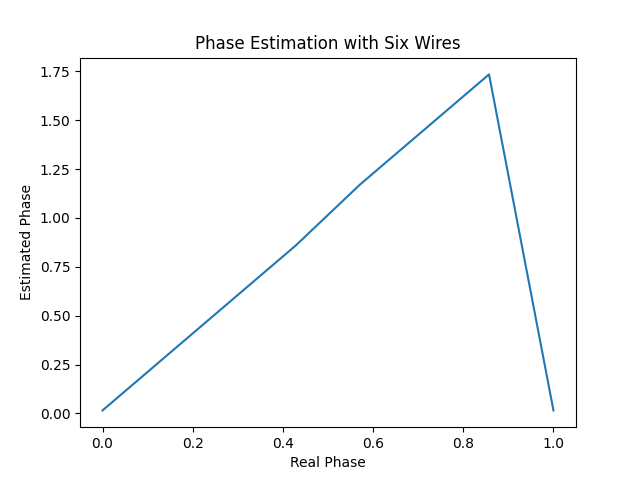
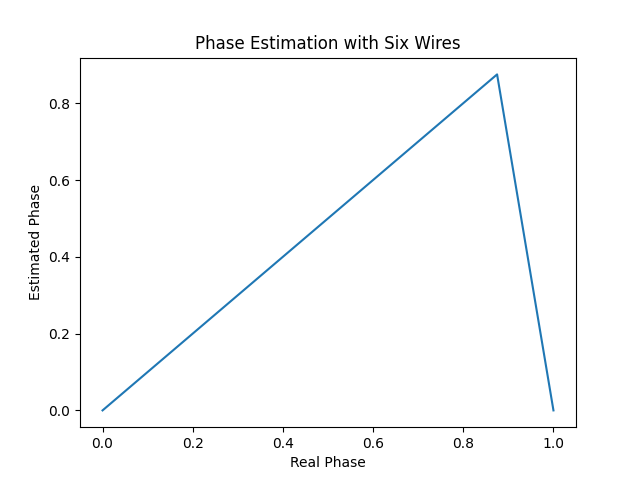
finished phase est and fixed sim s

diff --git a/quantum_simulators.py b/quantum_simulators.py
@@ -168,9 +168,9 @@ def ReadInputStateFromFile(file):
     return state
 
 def MakeFileFromBasis(basis, filename):
-    f = open(filename +  ".circuit", "w")
+    f = open(filename, "w")
     for elem in basis:
-        f.write(np.real(basis) + " " + np.imag(basis) + "\n")
+        f.write(str(np.real(elem)) + " " + str(np.imag(elem)) + "\n")
 
 def ReadInputStateFromBasis(basis):
     index = int(basis[1:(len(basis)-1)], 2)
@@ -193,6 +193,7 @@ def Simulator_s(circuit):
     myState = VecToDirac(myState)
   
     for gate in myInput:
+        print(gate)
         match gate[0]:
             case "H":
                 myState = H(int(gate[1]), myState)
@@ -201,7 +202,7 @@ def Simulator_s(circuit):
             case "CNOT":
                 myState = CNOT(int(gate[1]), int(gate[2]), myState)
     
-    myState = AddDuplicates(myState)
+        myState = AddDuplicates(myState)
 
     if measure:
         return measureState(DiracToVec(myState))
@@ -374,25 +375,93 @@ print(B)'''
 
 # Phase Estimation
 
+def phaseEstBoxer(top_wires,num_wires,out):
+    vals = [0 for i in range(2**top_wires)]
+
+    for state in out:
+        pos = int(state[1][:top_wires], 2)
+        vals[pos] += np.conj(state[0])*state[0]
+    
+    return vals
+
+# Measure
+
+circuit = open("Circuits/measure.circuit").read()
+print(Simulator_s(circuit))
+
+# Arbitrary 
+
+'''phase_estimation_circuit = "8 \n INITSTATE BASIS |00000011> \n" + phase_est_circuit.makeArbitraryPhaseEstCircuit(6, "NOT 0 \n P 0 0.3 \n NOT 1 \n")
+out = Simulator_s(phase_estimation_circuit)
+print(out)
+
+steps = [i/(2**(len(out[0][1])-2)) for i in range(2**6+1)]
+vals = phaseEstBoxer(6,8,out)
+
+plt.figure(0)
+plt.stairs(vals, steps, fill=True)
+plt.title("Phase Estimation with New Circuit")
+plt.xlabel("Estimated Phase")
+plt.ylabel("Probability")
+plt.savefig("Images/phaseesthistarbit.png")
+plt.show()'''
+
+# Speed
+
+'''phase_estimation_circuit = "7 \n INITSTATE BASIS |0000001> \n" + phase_est_circuit.makePhaseEstCircuit(6,7, 0.5*2*np.pi)
+out = Simulator_s(phase_estimation_circuit)
+print(out)
+
+steps = [i/(2**(len(out[0][1])-1)) for i in range(2**6+1)]
+vals = phaseEstBoxer(6,7,out)
+
+#print(vals)
+#print(steps)
+
+plt.figure(0)
+plt.stairs(vals, steps, fill=True)
+plt.axvline(x=0.5, color='r', linestyle='--')
+plt.title("Phase Estimation of 0.5 with New Phase Trick")
+plt.xlabel("Estimated Phase")
+plt.ylabel("Probability")
+plt.savefig("Images/phaseesthistspeed.png")
+plt.show()'''
+
 # Eigenstates
 
-testvec = [0 for i in range(2**6)]
+'''testvec = [0 for i in range(2**7)]
 testvec[0] = np.sqrt(0.3)
 testvec[1] = np.sqrt(0.7)
 MakeFileFromBasis(testvec, "eigenstates_test.txt")
-phase_estimation_circuit = "7 \n INITSTATE FILE eigenstates_test.txt" + phase_est_circuit.makePhaseEstCircuit(6,7, 0.5)
+phase_estimation_circuit = "7 \n INITSTATE FILE eigenstates_test.txt \n" + phase_est_circuit.makePhaseEstCircuit(6,7, 0.5*2*np.pi)
+out = Simulator_s(phase_estimation_circuit)
+print(out)
+
+steps = [i/(2**(len(out[0][1])-1)) for i in range(2**6+1)]
+vals = phaseEstBoxer(6,7,out)
+
+#print(vals)
+#print(steps)
+
+plt.figure(0)
+plt.stairs(vals, steps, fill=True)
+plt.axvline(x=0.5, color='r', linestyle='--')
+plt.title("Phase Estimation of 0.5 with Different Eigenstate")
+plt.xlabel("Estimated Phase")
+plt.ylabel("Probability")
+plt.savefig("Images/phaseesthisteigen.png")
+plt.show()'''
 
 # 6 Wires
 
-'''phase = np.linspace(0, 2*np.pi, 8)
+'''phase = np.linspace(0, 2*np.pi, 9)
 estim_list = []
 
 for p in phase:
-    print(p)
+    print(p/(2*np.pi))
     phase_estimation_circuit = "7 \n INITSTATE BASIS |0000001> " + phase_est_circuit.makePhaseEstCircuit(6,7, p)
 
     out = Simulator_s(phase_estimation_circuit)
-
     estim = 0
     amp = 0
 
@@ -400,7 +469,7 @@ for p in phase:
         temp_amp = np.conj(i[0])*i[0]
         if temp_amp > amp:
             amp = temp_amp
-            estim = int(i[1][0:len(i[1])], 2)/(2**(len(i[1])-1))
+            estim = int(i[1][0:len(i[1])-1], 2)/(2**(len(i[1])-1))
 
     estim_list.append(estim)
 
@@ -412,15 +481,14 @@ plt.ylabel("Estimated Phase")
 plt.savefig("Images/phaseest6.png")
 
 p = 0.1432394487827058*2*np.pi
-phase_estimation_circuit = "7 \n INITSTATE BASIS |0000001> " + phase_est_circuit.makePhaseEstCircuit(6,7, p)
+phase_estimation_circuit = "7 \n INITSTATE BASIS |0000001> \n" + phase_est_circuit.makePhaseEstCircuit(6,7, p)
 out = Simulator_s(phase_estimation_circuit)
 
-vals = [np.conj(out[i][0])*out[i][0] for i in range(len(out))]
+vals = phaseEstBoxer(6,7,out)
 steps = [i/(2**(len(out[0][1])-1)) for i in range(len(out)+1)]
 
-print((2**(len(out[0][1])-1)))
-print(vals)
-print(steps)
+#print(vals)
+#print(steps)
 
 plt.figure(1)
 plt.stairs(vals, steps, fill=True)
@@ -463,12 +531,9 @@ p = 0.1432394487827058*2*np.pi
 phase_estimation_circuit = "3 \n INITSTATE BASIS |001> \n H 0 \n H 1 \n CPHASE 1 2 " + str(p) + " \n CPHASE 0 2 " + str(p) + " \n CPHASE 0 2 " + str(p) + "\n H 0 \n CPHASE 0 1 " + str(-np.pi/2) + " \n H 1 \n SWAP 0 1"
 out = Simulator_s(phase_estimation_circuit)
 
-vals = [np.conj(out[i][0])*out[i][0] for i in range(len(out))]
+vals = phaseEstBoxer(2,3,out)
 steps = [i/(2**(len(out[0][1])-1)) for i in range(len(out)+1)]
 
-print((2**(len(out[0][1])-1)))
-print(vals)
-print(steps)
 
 plt.figure(1)
 plt.stairs(vals, steps, fill=True)
@@ -512,7 +577,7 @@ plt.savefig("phaseest1.png")'''
 '''phase_estimation_circuit = "2 \n INITSTATE BASIS |01> \n H 0 \n CPHASE 0 1 " + str(2*np.pi*0.1432394487827058) + "\n H 0"
 out = Simulator_s(phase_estimation_circuit)
 
-vals = [np.conj(out[i][0])*out[i][0] for i in range(len(out))]
+vals = phaseEstBoxer(1,2,out)
 steps = [i/len(out[0][1]) for i in range(len(out)+1)]
 
 print(vals)

diff --git a/phase_est_circuit.py b/phase_est_circuit.py
@@ -22,8 +22,27 @@ def invert(circuit):
     return reversed_text
 
 def makePhaseEstCircuit(top_wires, num_wires, phase):
-    #f = open("Phase_Circuits/phase_est_circuit-" + str(num_wires) + "-" + str(phase) +  ".circuit", "w")
-    output = str(num_wires) + "\n"
+    output = ""
+
+    # Hadamard Section
+    for i in range(top_wires):
+        output += "H " + str(i) + "\n"
+
+    # U Section
+    # for i in range(top_wires):
+    #    for j in range(2**i):
+    #         output += "CPHASE " + str(top_wires-i-1) + " " + str(top_wires) + " " + str(phase) + "\n"
+
+    # Faster U
+    for i in range(top_wires):
+        output += "CPHASE " + str(top_wires-i-1) + " " + str(top_wires) + " " + str(phase*(2**i)) + "\n"
+    
+    # Inverse QFT
+    output += invert(makeQFTCircuit(top_wires))
+    return output
+
+def makeArbitraryPhaseEstCircuit(top_wires, circuit):
+    output = ""
 
     # Hadamard Section
     for i in range(top_wires):
@@ -31,11 +50,22 @@ def makePhaseEstCircuit(top_wires, num_wires, phase):
 
     # U Section
     for i in range(top_wires):
-        for j in range(2**i):
-            output += "CPHASE " + str(top_wires-i-1) + " " + str(top_wires) + " " + str(phase) + "\n"
+       for j in range(2**i):
+            output += makeControl(top_wires-i-1, top_wires, circuit)
     
     # Inverse QFT
     output += invert(makeQFTCircuit(top_wires))
     return output
 
-print(makePhaseEstCircuit(2,3, np.pi))
+def makeControl(control, top_wires, circuit):
+    output = ""
+    for line in circuit.split('\n'):
+        if len(line.split()) <= 1:
+            continue
+        if "NOT" in line:
+            output += "CNOT" + " " + str(control) + " " + str(int(line.split()[-1]) + top_wires) + "\n"
+        elif "P" in line:
+            output += "CPHASE" + " " + str(control) + " " + str(int(line.split()[-2]) + top_wires) + " " + line.split()[-1] + "\n"
+        else:
+            output += line + "\n"
+    return output
